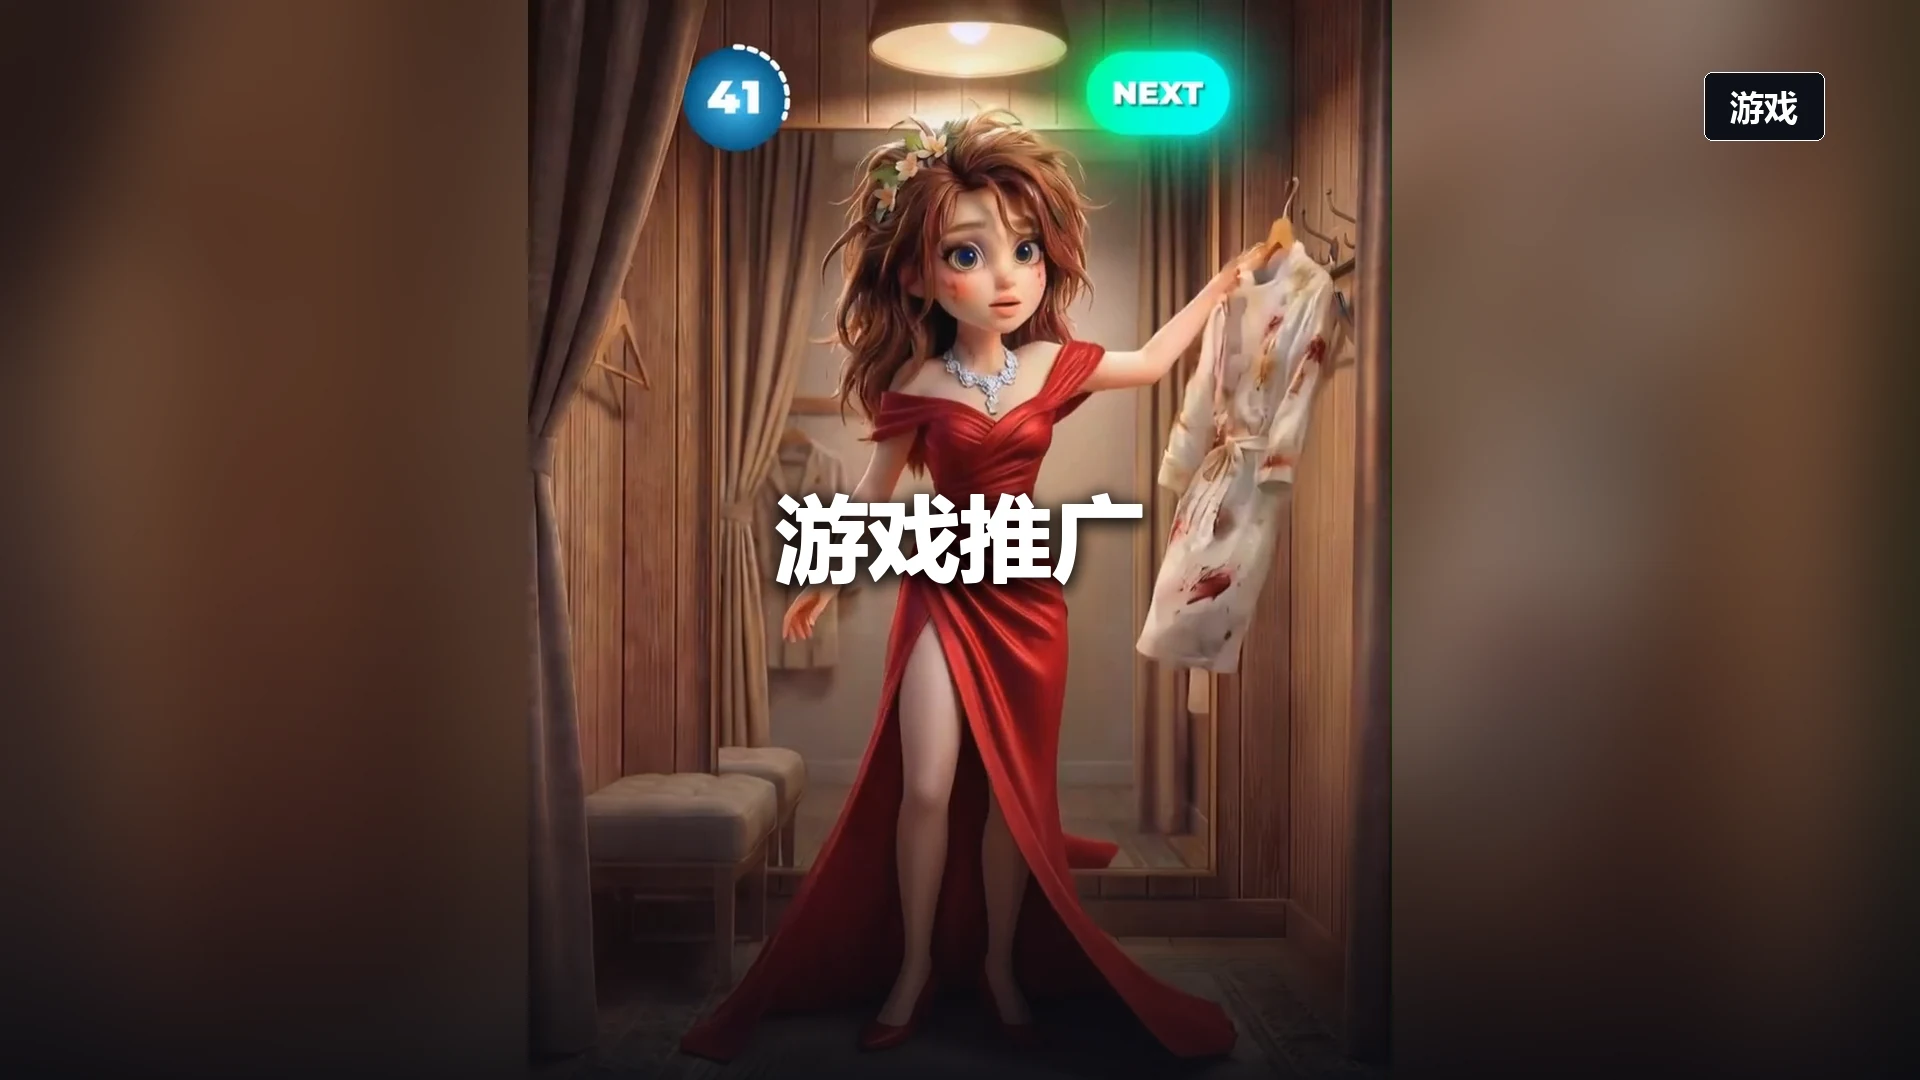
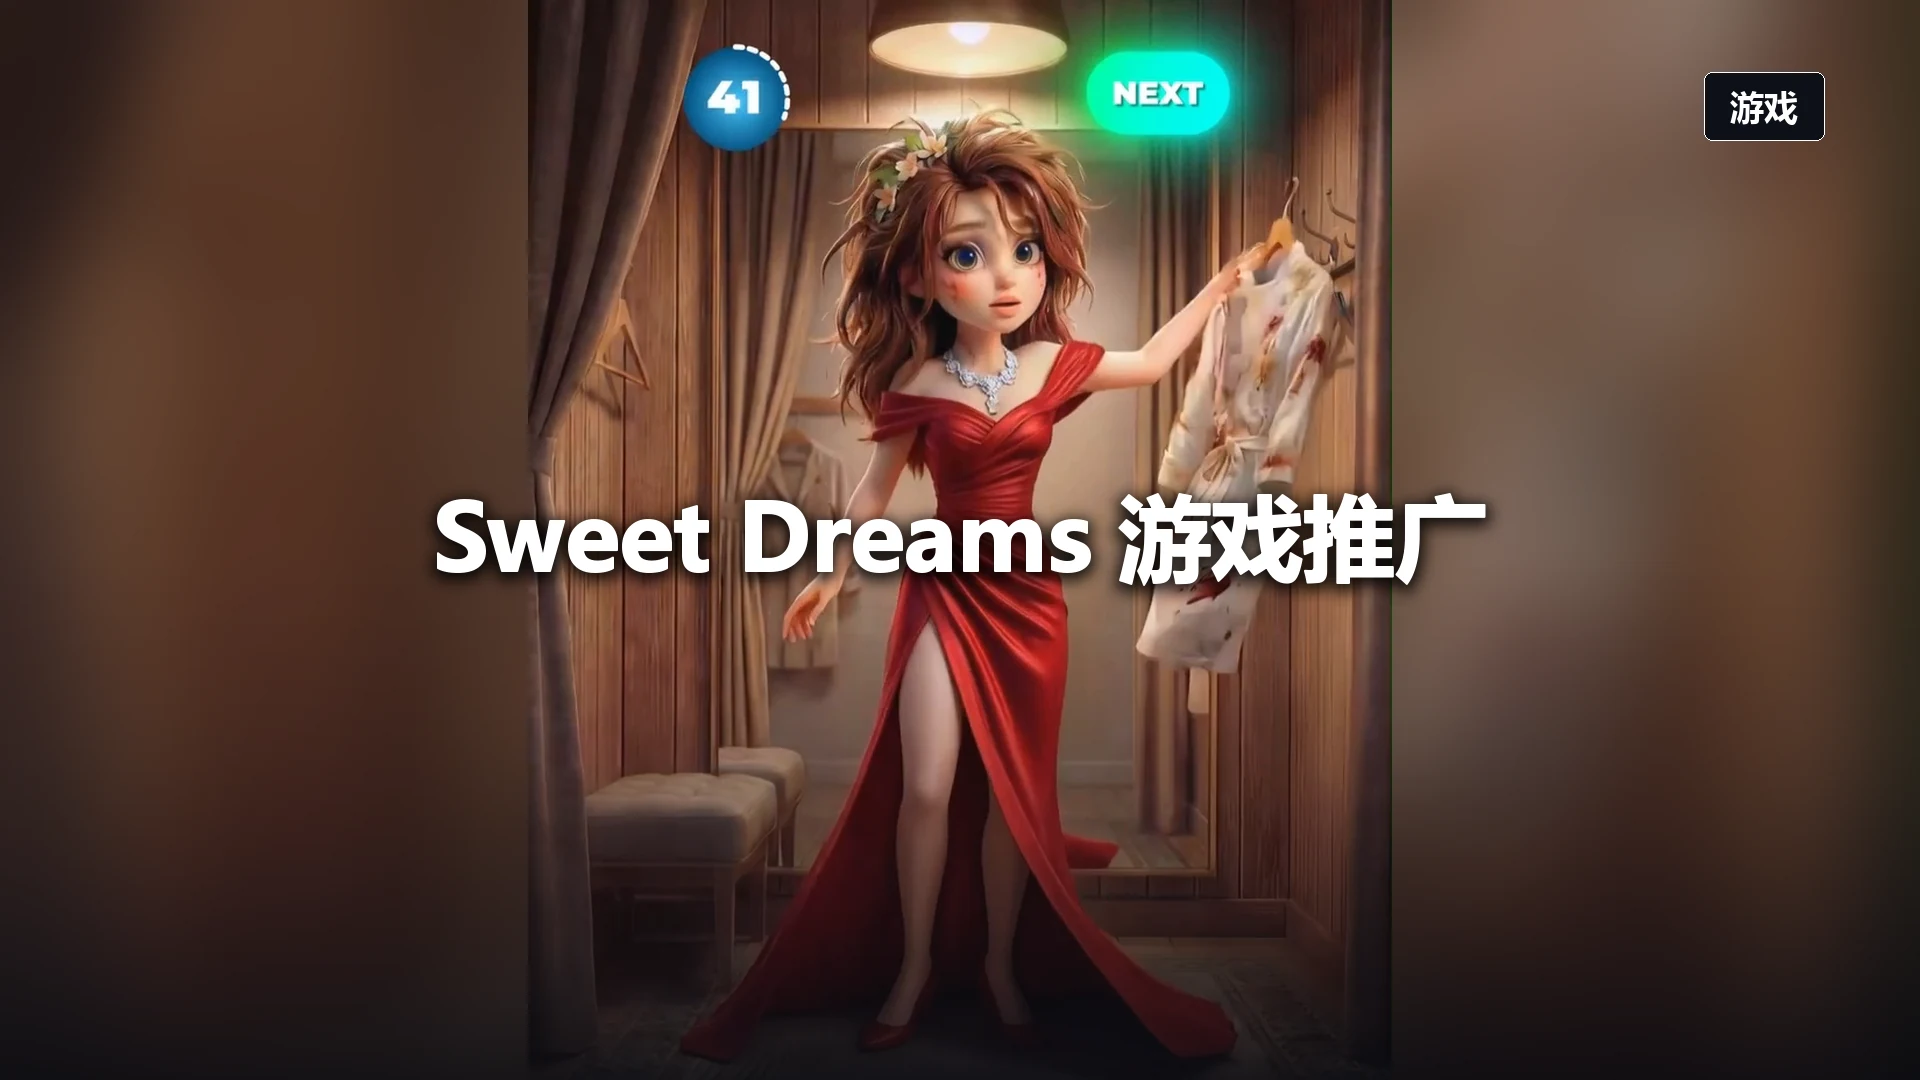
Rename three video projects and regenerate their cover titles

Changed region(s): [[0.2188, 0.4278, 0.7812, 0.5806]]

diff --git a/src/data/resume.js b/src/data/resume.js
@@ -4,7 +4,7 @@ export const resume = {
  responsibilities:['参与40多部AI漫剧及TVC广告内容制作，具备AI漫剧、真人风格短剧、出海内容与广告制作经验。','可衔接脚本拆解、分镜设计、视觉资产制作、AI视频生成及后期交付。','作品覆盖古风种田、奇幻成长、情感叙事与产品展示，并具备将品牌策划、视觉设计延展为宣传视频的实践经验。'],
  projects:[
  {title:'AI漫剧与真人风格短剧｜内容制作',works:'《桃园村长第一季，小酒来也》《种田养猪称帝》《觉醒无限复制，看我白卡成神》《白色魔杖》',description:'围绕村庄群像、仙侠宗门、卡牌系统与魔法学院等题材开展视觉及镜头制作，衔接人物对白、场景转换和段落悬念。'},
- {title:'出海短剧与品牌广告｜视频制作与后期',works:'《The Seventh Element／第七元素》《Between Lies and Love／谎言与爱之间》《安慕希》广告、水杯种草短片、汽水展示与游戏推广',description:'涉及奇幻成长、亲子身份、悬疑副本等内容，以及产品互动、品牌宣传、横屏叙事广告和竖屏短素材制作。'},
+ {title:'出海短剧与品牌广告｜视频制作与后期',works:'《The Seventh Element／第七元素》《Between Lies and Love／谎言与爱之间》《安慕希》广告、《元气小熊水杯推广》《OLIPOP汽水推广》《Sweet Dreams 游戏推广》',description:'涉及奇幻成长、亲子身份、悬疑副本等内容，以及产品互动、品牌宣传、横屏叙事广告和竖屏短素材制作。'},
  {title:'叙事短片｜情绪与视听表达',works:'《粽香》《AI短片爷爷》',description:'通过人物近景、生活细节、场景色彩与剪辑节奏塑造情绪，补充广告与系列短剧之外的故事表达。'}
  ],
  phone:'13944279415',bilibiliSpace:'https://space.bilibili.com/1964910483'

diff --git a/src/data/video-projects.js b/src/data/video-projects.js
@@ -868,7 +868,7 @@ const originalVideoProjects = [
   },
   {
     "id": "bear-cup",
-    "title": "AI小熊水杯",
+    "title": "元气小熊水杯推广",
     "category": "tvc",
     "mediaType": "video",
     "description": "",
@@ -938,7 +938,7 @@ const originalVideoProjects = [
   },
   {
     "id": "soda",
-    "title": "汽水",
+    "title": "OLIPOP汽水推广",
     "category": "tvc",
     "mediaType": "video",
     "description": "",
@@ -1068,7 +1068,7 @@ const originalVideoProjects = [
   },
   {
     "id": "game-promo",
-    "title": "游戏推广",
+    "title": "Sweet Dreams 游戏推广",
     "category": "game",
     "mediaType": "video",
     "description": "",

diff --git a/scripts/build-video-covers.py b/scripts/build-video-covers.py
@@ -13,6 +13,7 @@ ROOT = Path(__file__).resolve().parents[1]
 parser = argparse.ArgumentParser()
 parser.add_argument('--font', default='C:/Windows/Fonts/msyhbd.ttc')
 parser.add_argument('--regular-font', default='C:/Windows/Fonts/msyh.ttc')
+parser.add_argument('--only', nargs='+', help='Regenerate only these project IDs; preserve all other files')
 args = parser.parse_args()
 OUT = ROOT / 'public/assets/video-covers'
 OUT.mkdir(parents=True, exist_ok=True)
@@ -28,8 +29,15 @@ line_breaks = {
 }
 profile = ImageCms.ImageCmsProfile(ImageCms.createProfile('sRGB')).tobytes()
 manifest, bindings = [], {}
+previous = read('results') if args.only else []
+if args.only and not set(args.only).issubset({p['id'] for p in projects}):
+    raise ValueError('Unknown project ID')
 
 def compose(project, episode, filename, episode_label=False):
+    if args.only and project['id'] not in args.only:
+        entry = next(item for item in previous if item['file'] == '/assets/video-covers/'+filename)
+        manifest.append(entry)
+        return entry['file']
     selection = selections[episode['id']]
     record = candidate_map[episode['id']]
     candidate = next(c for c in record['candidates'] if c['percentage'] == selection['percentage'])

diff --git a/docs/video-covers/README.md b/docs/video-covers/README.md
@@ -28,10 +28,10 @@
 | THE Seventh Element第七元素 | 分类主封面 | `/assets/video-covers/seventh-element-main.webp` | `C:\Users\EDY\Desktop\哔哩哔哩\出海\THE Seventh Element第七元素\真人01.mp4` · 40% / 108.360s | 已完成 |
 | Between Lies and Love谎言与爱之间 | 分类主封面 | `/assets/video-covers/lies-and-love-main.webp` | `C:\Users\EDY\Desktop\哔哩哔哩\出海\Between Lies and Love谎言与爱之间\真人02.mp4` · 20% / 47.460s | 已完成 |
 | 安慕希广告 | 分类主封面 | `/assets/video-covers/ambrosial-main.webp` | `C:\Users\EDY\Desktop\哔哩哔哩\广告\安慕希\安慕希广告.mp4` · 80% / 57.608s | 已完成 |
-| AI小熊水杯 | 分类主封面 | `/assets/video-covers/bear-cup-main.webp` | `C:\Users\EDY\Desktop\哔哩哔哩\广告\杯子\1787825391405.mp4` · 40% / 4.824s | 已完成 |
-| 汽水 | 分类主封面 | `/assets/video-covers/soda-main.webp` | `C:\Users\EDY\Desktop\哔哩哔哩\广告\汽水广告\屏幕录制 2026-10-07 161800.mp4` · 80% / 9.784s | 已完成 |
+| 元气小熊水杯推广 | 分类主封面 | `/assets/video-covers/bear-cup-main.webp` | `C:\Users\EDY\Desktop\哔哩哔哩\广告\杯子\1787825391405.mp4` · 40% / 4.824s | 已完成 |
+| OLIPOP汽水推广 | 分类主封面 | `/assets/video-covers/soda-main.webp` | `C:\Users\EDY\Desktop\哔哩哔哩\广告\汽水广告\屏幕录制 2026-10-07 161800.mp4` · 80% / 9.784s | 已完成 |
 | AI变装 | 分类主封面 | `/assets/video-covers/outfit-main.webp` | `C:\Users\EDY\Desktop\哔哩哔哩\广告\变装\变装.mp4` · 80% / 9.680s | 已完成 |
-| 游戏推广 | 分类主封面 | `/assets/video-covers/game-promo-main.webp` | `C:\Users\EDY\Desktop\哔哩哔哩\广告\游戏推广\游戏推广.mp4` · 40% / 18.884s | 已完成 |
+| Sweet Dreams 游戏推广 | 分类主封面 | `/assets/video-covers/game-promo-main.webp` | `C:\Users\EDY\Desktop\哔哩哔哩\广告\游戏推广\游戏推广.mp4` · 40% / 18.884s | 已完成 |
 | 仙剑奇侠传 | 分类主封面 | `/assets/video-covers/sword-legend-main.webp` | `C:\Users\EDY\Desktop\哔哩哔哩\广告\仙剑奇侠传\仙剑奇侠传.mp4` · 20% / 55.088s | 已完成 |
 
 ## 素材待补充
